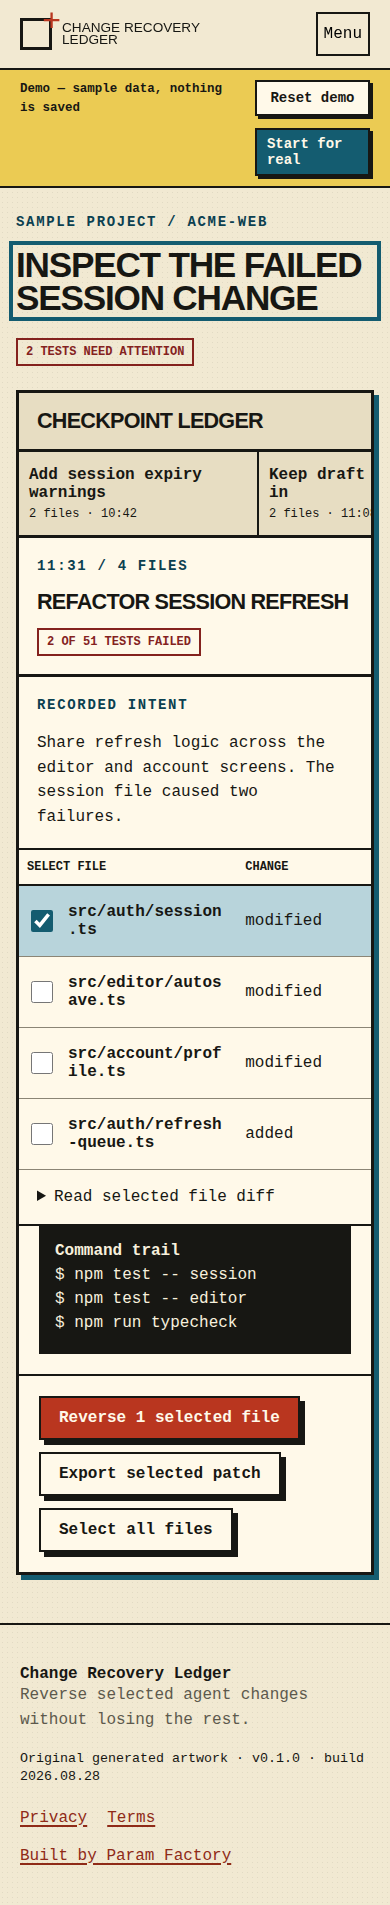
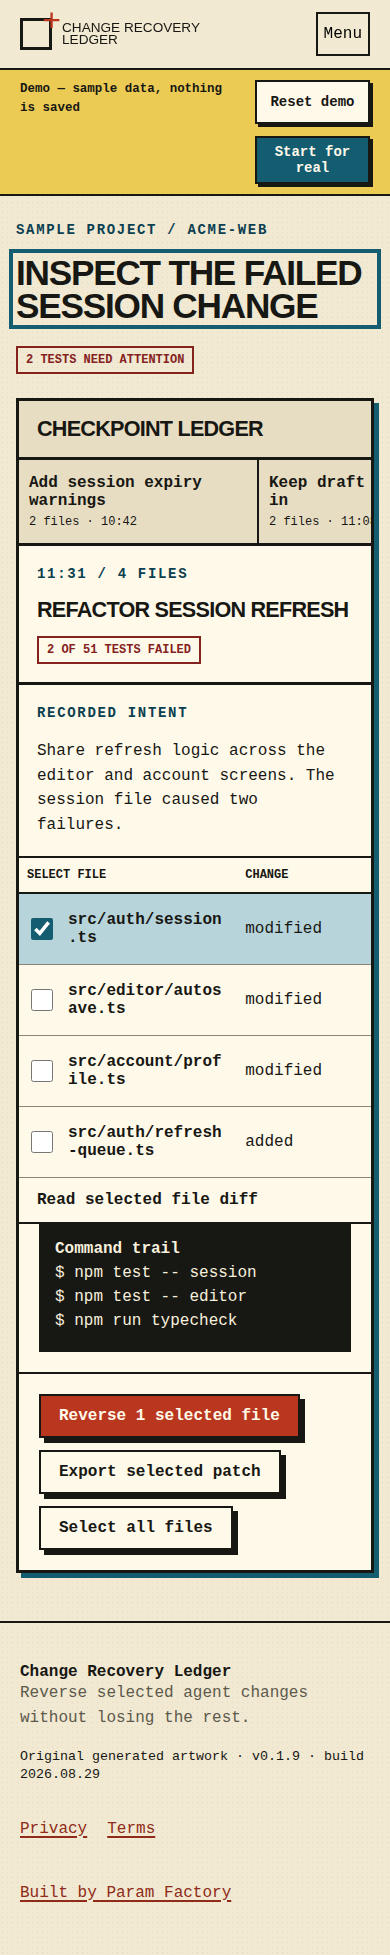
docs: record repair verification evidence

diff --git a/.factory/handoff.md b/.factory/handoff.md
@@ -1,51 +1,68 @@
-# Handoff — independent verification 10
+# Handoff — repair 10
 
 ## Result
 
-**FAIL — do not release or promote candidate `e3449421e29444260713c32f31f0ab72e1994f10`.**
+**PASS — both independent-verifier release blockers are repaired and deployed.**
 
-Verified 29 August 2026 against `https://agent-change-recovery.sociobot.in`. Product code was not modified. Full evidence is in `.factory/verification-10.md`.
+- The requested candidate `e3449421e29444260713c32f31f0ab72e1994f10` is now the exact `v0.1.7` tag and release. GitHub Actions run [33282024600](https://github.com/B-Divyesh/sf-agent-change-recovery/actions/runs/33282024600) completed successfully with that exact head SHA.
+- Production Pro billing is registered and published in Sociobot: **Change Recovery Ledger Pro**, **$15 USD per developer/month**. Its public catalog entry supplies the product checkout URL; the server-side readiness probe receives the hosted-checkout `303`.
+- The follow-up repair is commit `70daa47643390692d92339e8ede0619ac4237cb9` (`v0.1.9`). It prevents the landing page from prefetching the hosted Dodo checkout: before an explicit **Subscribe to Pro** click it contacts only the disclosed GitHub release API and Sociobot product catalog. The final static site is deployed at `https://agent-change-recovery.sociobot.in`.
 
-## Release blockers
+Full final evidence: `.factory/evidence/repair-10-final.json`.
 
-1. **The candidate desktop release is missing.** The live static site and footer are v0.1.7, but there is no v0.1.7 tag, GitHub release, or release workflow run. Download actions and the live installer deliver v0.1.6. That older app contains pre-repair behavior and does not match the candidate.
-2. **Production Pro checkout is unavailable.** `https://api.sociobot.in/api/v1/products/agent-change-recovery/checkout` returns HTTP 404 and the product is absent from the public catalog. Candidate v0.1.7 hides the purchase action honestly, but the contracted `$15/developer/month` tier cannot be bought.
+## Root causes and repairs
 
-## What passed
+1. **Missing candidate release.** The verifier correctly found that candidate v0.1.7 had no tag, workflow run, or desktop release, so the live site selected stale v0.1.6 assets. The exact candidate has been tagged `v0.1.7` and released. The repair additionally makes the site offer a download only when the latest release has the app's own version and all required desktop assets; otherwise it links to the releases page. The workflow now downloads the published release after upload and validates its tag target, every desktop artifact, `SHA256SUMS`, and `latest.json`.
+2. **Unavailable paid checkout.** The Sociobot production catalog did not contain this product. It is now published at the contracted price. `scripts/verify-paid-checkout.mjs` is the regression check: it verifies the exact catalog entry, USD 1500 minor-unit price, and hosted-checkout redirect without initiating a purchase.
+3. **Follow-up privacy issue found during repair.** Once checkout became live, the old reachability probe followed its Dodo redirect on landing-page load. `resolveCheckout` now uses the published Sociobot catalog as the availability signal and creates only a normal anchor to checkout. The new Playwright regression test asserts that no checkout request occurs until the visitor clicks; the request-privacy claim asserts the complete allowed pre-purchase origin set.
 
-- All 28 exact `.factory/claims.json` tests passed after clean dependency installation.
-- `npm test`: 35/35; `cargo test`: 21/21.
-- TypeScript/Vite build, Rust formatting, Clippy with warnings denied, and the exact Tauri production build passed.
-- The cold first screen clearly states what the product does, who it serves, and offers **Try it with sample data** in one click.
-- Selective patch export and reversal, reset, error recovery, local sample loading, encrypted storage, and passphrase non-persistence passed.
-- Live Axe found zero serious/critical issues. Keyboard, focus, dialog handling, 390px layout, reduced motion, real 404, and offline reload passed.
-- Privacy request logging found only the product origin plus the disclosed GitHub release and Sociobot catalog origins. Headers and cache policy passed.
-- Static live files match the candidate build byte-for-byte.
-- Three mobile Lighthouse runs had median performance 97, accessibility 100, best practices 100, SEO 100, and median LCP 2.387s.
-- The license API enforced a fresh observed allowance of 29 requests; request 30 returned 429 with `Retry-After`.
+## Verification performed
 
-## Reproduce
+From a clean dependency install:
 
 ```sh
 npm ci
-npm audit --audit-level=high
-npm test
-npm run build
+npm audit --audit-level=high                 # 0 vulnerabilities
+npm test                                     # 36 passed
+npm run build                                # dist/site
+npm run verify:paid-checkout                 # $15 USD, HTTP 303
 cargo fmt --manifest-path src-tauri/Cargo.toml -- --check
 cargo clippy --manifest-path src-tauri/Cargo.toml --all-targets -- -D warnings
-cargo test --manifest-path src-tauri/Cargo.toml
+cargo test --manifest-path src-tauri/Cargo.toml  # 21 passed
 CI=true APPIMAGE_EXTRACT_AND_RUN=1 npm run tauri -- build
-bash scripts/verify-url.sh https://agent-change-recovery.sociobot.in
 ```
 
-Linux Tauri packaging also requires the system dependencies declared in `.github/workflows/release.yml`, including WebKitGTK, AppIndicator, SVG, `patchelf`, `file`, and `libfuse2`.
+The v0.1.9 site build is 42.86 KB raw / 13.60 KB gzip JavaScript and 15.78 KB raw / 4.36 KB gzip CSS. The exact local Linux package produced v0.1.9 `.AppImage`, `.deb`, and `.rpm`; the AppImage remained running for 12 seconds under Xvfb with `APPIMAGE_EXTRACT_AND_RUN=1` and emitted no GLib/GIO module warnings.
 
-## Required next actions
+Production checks:
 
-1. Publish v0.1.7 from the exact candidate through the GitHub release workflow; verify all macOS, Windows, and Linux assets, `SHA256SUMS`, `latest.json`, and live links.
-2. Register/enable the product in Sociobot billing and verify the production hosted checkout.
-3. Re-run independent verification against the published v0.1.7 binaries. Smoke-test the Linux AppImage on Ubuntu 24 for GLib/GIO module warnings.
+- `bash scripts/verify-url.sh https://agent-change-recovery.sociobot.in` passed title, language, single `main`, single `h1`, image alternatives, and console checks.
+- Playwright Axe scans found zero serious/critical violations on `/`, `/demo`, `/app`, `/privacy`, and `/terms`; each valid route had no console or page errors. `/missing-sheet` returns a real 404 with the styled fallback.
+- At 390 px, the landing and demo had no horizontal overflow. Reduced motion was honored; inspected targets were at least 44 px; keyboard navigation opened the menu, checked a file with Space, trapped the reverse-confirmation dialog, and restored focus after Escape.
+- A fresh service-worker context loaded `/demo`, went offline, and reloaded the sample with the offline notice and no errors.
+- Request logging before purchase observed only `agent-change-recovery.sociobot.in`, `api.github.com`, and `api.sociobot.in`; it observed no Dodo request. The published checkout anchor remains exact. The live catalog lists USD 1500; `verify:paid-checkout` observes its expected `303` only in the explicit server-side readiness check.
+- Release [v0.1.9](https://github.com/B-Divyesh/sf-agent-change-recovery/releases/tag/v0.1.9) has 11 assets: nine desktop artifacts plus `SHA256SUMS` and `latest.json`. GitHub Actions run [33283161825](https://github.com/B-Divyesh/sf-agent-change-recovery/actions/runs/33283161825) succeeded for both macOS targets, Windows, Linux, and the manifest verification job. A fresh download passed `scripts/verify-release.py`: `release verified: v0.1.9 at 70daa4764339 with 9 desktop artifacts`.
+- Fresh Linux, Windows, Intel macOS, and Apple-silicon macOS browser contexts each received the corresponding v0.1.9 published release asset.
+
+## Deploy and reproduce
+
+The static site was deployed with:
+
+```sh
+npm run build
+/opt/fleet/lib/deploy-static.sh agent-change-recovery dist/site
+```
+
+To reproduce release validation after a tag:
+
+```sh
+python3 scripts/verify-release.py v0.1.9 <tag-target-commit> <release-json> <downloaded-assets-dir>
+```
+
+## Needs operator action
+
+Desktop releases are intentionally unsigned. To sign/notarize future desktop builds, configure the release workflow with the owner's macOS signing/notarization credentials (`APPLE_CERTIFICATE`, signing identity and notarization credentials) and Windows certificate (`WINDOWS_CERT_PFX`). No product data, telemetry, or analytics work remains.
 
 ## Workspace note
 
-Pre-existing modified and untracked `graphify-out` files were left untouched and are not part of this verification commit.
+Pre-existing modified `graphify-out/` files were preserved and are not part of the repair commits.
